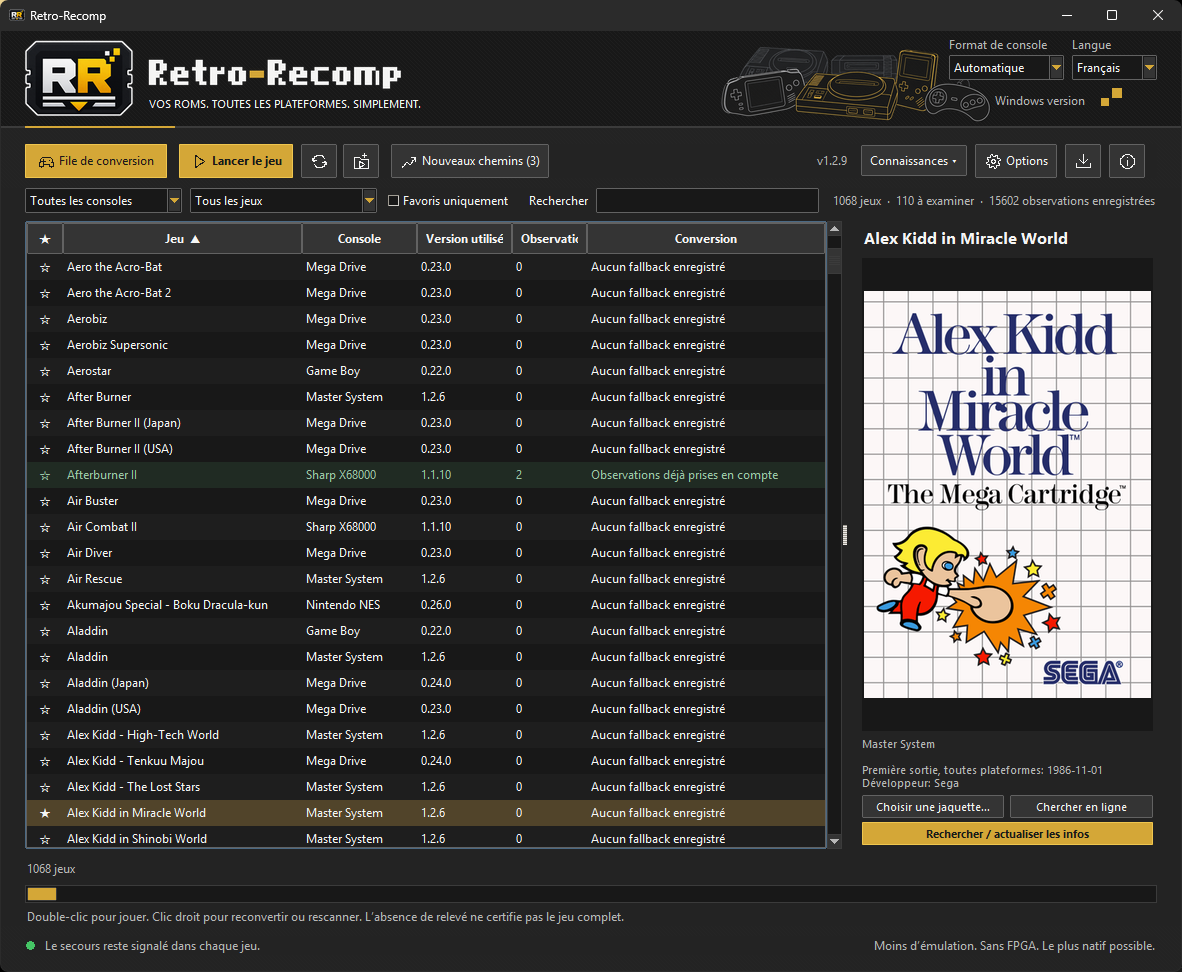
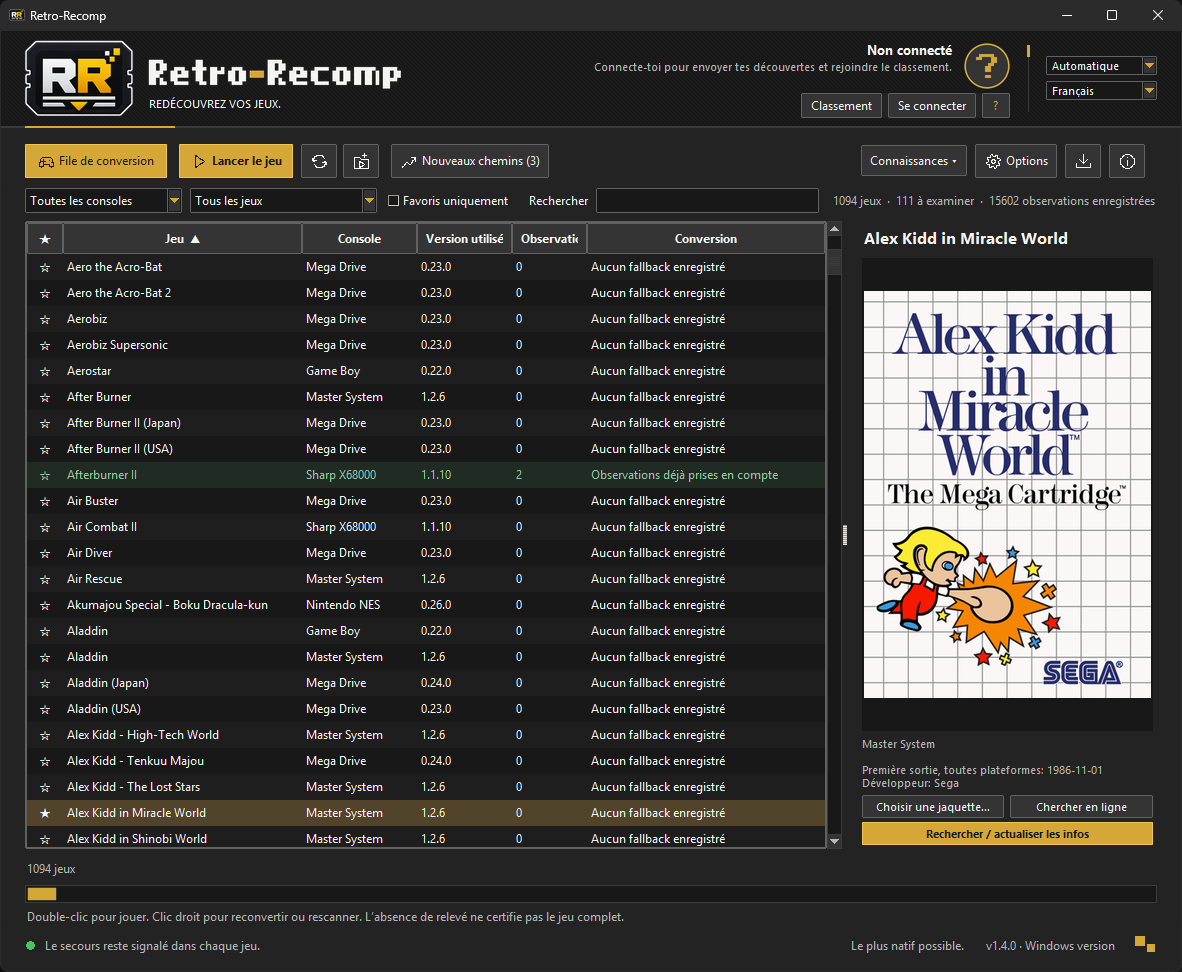
README: new screenshots, help and leaderboard; GitHub Pages retired
The four gallery screenshots are retaken with the 1.4.0 header (signed
out of the open service), and the gallery adds the help page and the
leaderboard (sample players). The website is now retro-recomp.com, so
the GitHub Pages workflow is removed; tools/build_site.py stays for the
shared media list.

Changed region(s): [[0.5178, 0.0309, 0.9746, 0.1235], [0.731, 0.9568, 0.9746, 0.9877], [0.1218, 0.0926, 0.3655, 0.1235]]

diff --git a/tools/prepare_publication.py b/tools/prepare_publication.py
@@ -108,7 +108,7 @@ retrorecomp/feedback.py native/runtime_feedback.c native/runtime_feedback.h nati
 tools/runtime_feedback_selftest.py native/runtime_feedback_checks.c tests/test_feedback.py
 tools/gameplay_feedback_selftest.py
 .gitattributes .gitignore .github/workflows/checks.yml
-.github/workflows/pages.yml tools/build_site.py tests/test_site.py
+tools/build_site.py tests/test_site.py
 site/index.html site/styles.css site/404.html
 README.md LICENSE CONTRIBUTING.md THIRD_PARTY_NOTICES.md
 RetroRecomp.py requirements.txt
@@ -123,6 +123,7 @@ MEDIAS/RetroRecomp_Master_System_Collection.png
 MEDIAS/RetroRecomp_Compiled_Games.png MEDIAS/RetroRecomp_Credits.png
 MEDIAS/RetroRecomp_Queue_en.png MEDIAS/RetroRecomp_Collection_fr.png MEDIAS/RetroRecomp_Options_de.png
 MEDIAS/RetroRecomp_Credits_ja.png MEDIAS/RetroRecomp_Closing_it.gif
+MEDIAS/RetroRecomp_Help_fr.png MEDIAS/RetroRecomp_Leaderboard_fr.png
 MEDIAS/RetroRecomp_learning_cycle.png
 MEDIAS/RetroRecomp_Native_Games_web.mp4
 MEDIAS/RetroRecomp_Native_Games_poster.jpg

diff --git a/tools/build_site.py b/tools/build_site.py
@@ -1,4 +1,7 @@
-"""Assemble the GitHub Pages site from site/ and resized public media."""
+"""Assemble the former GitHub Pages site from site/ and resized public media.
+
+GitHub Pages is switched off since 1.4.0 (the website is retro-recomp.com); the
+MEDIA list below still names the shared screenshots and pictures."""
 from __future__ import annotations
 
 import argparse

diff --git a/README.md b/README.md
@@ -112,6 +112,14 @@ native code as possible: no emulator to configure, no dedicated FPGA hardware.
     <td align="center"><sub><em>Credits, in Japanese: a demoscene backdrop with live ChipLoom music.</em></sub></td>
     <td align="center"><sub><em>Before closing, in Italian: recompile the games with new paths.</em></sub></td>
   </tr>
+  <tr>
+    <td width="50%" align="center"><img src="MEDIAS/RetroRecomp_Help_fr.png" alt="Help page in French: how RetroRecomp works in five steps and the keys every game shares" width="400"></td>
+    <td width="50%" align="center"><img src="MEDIAS/RetroRecomp_Leaderboard_fr.png" alt="Leaderboard window in French with the trophy, a podium with three crowns and the class gems, sample data" width="420"></td>
+  </tr>
+  <tr>
+    <td align="center"><sub><em>Help, in French: how it works in five steps.</em></sub></td>
+    <td align="center"><sub><em>The leaderboard, in French (sample players): podium, crowns and class gems.</em></sub></td>
+  </tr>
 </table>
 
 <p align="center">
